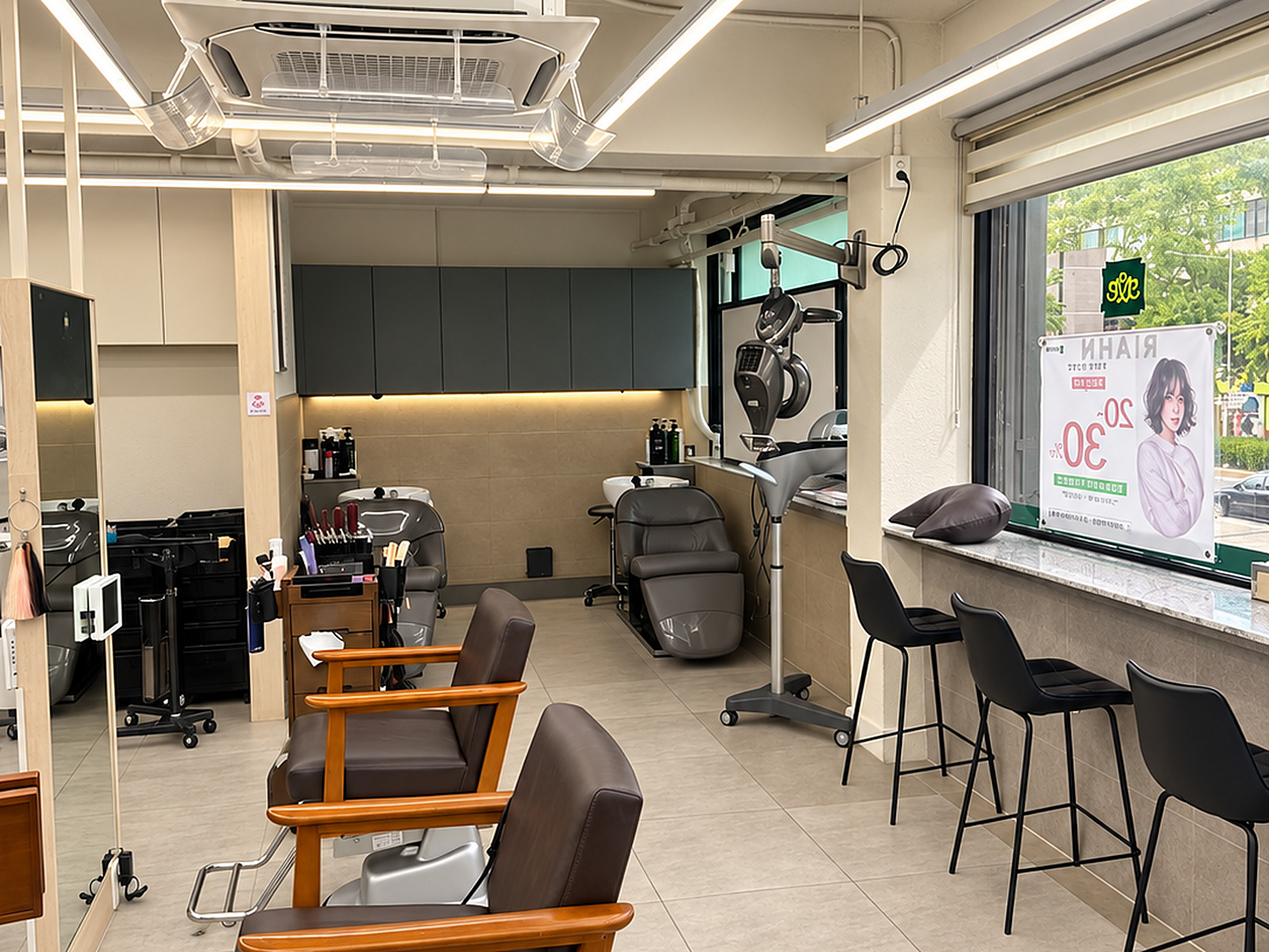
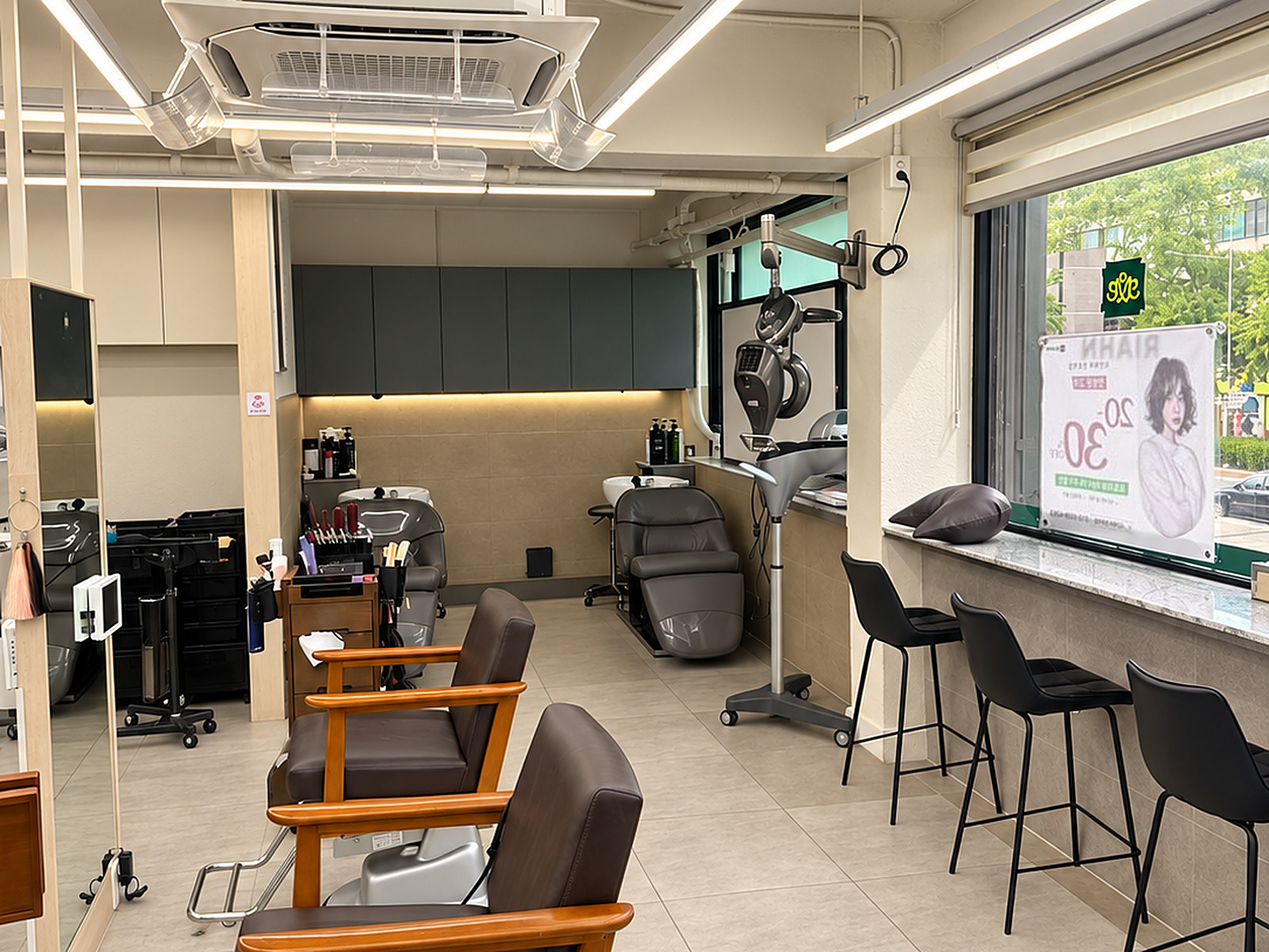
AI 보정 사진의 바뀐 글자·숫자를 원본으로 복원
- 1층 휴대폰 매장 전화번호, 창문 포스터, 접수대 포스터 날짜(매월 21일)
- 창밖 건너편 간판, 위층 한의원 전화번호, 1층 유리창 포스터·표지

Changed region(s): [[0.8125, 0.3392, 0.9688, 0.555], [0.9375, 0.5242, 0.9688, 0.555]]

diff --git a/ja/gallery/index.html b/ja/gallery/index.html
@@ -409,14 +409,14 @@
     <figure><img src="/images/style-color-2.jpg?v=278ab066" alt="ソウル・千戸駅の美容室 RIAHN Hair Cheonho Station カラー - ブラウンカラースタイル" width="1000" height="1000" loading="lazy"><figcaption><span class="nw">カラー</span> · <span class="nw">ブラウンカラースタイル</span></figcaption></figure>
     <figure><img src="/images/style-clinic-1.jpg?v=2584690c" alt="ソウル・千戸駅の美容室 RIAHN Hair Cheonho Station トリートメント - トリートメントケア" width="800" height="901" loading="lazy"><figcaption><span class="nw">トリートメント</span> · <span class="nw">トリートメントケア</span></figcaption></figure>
     <figure><img src="/images/store-main.jpg?v=885b51a1" alt="ソウル・千戸駅の美容室 RIAHN Hair Cheonho Station 店舗 - 店内の様子" width="1600" height="1200" loading="lazy"><figcaption>店舗 · 店内の様子</figcaption></figure>
-    <figure><img src="/images/store-1.jpg?v=9c8bfbdd" alt="ソウル・千戸駅の美容室 RIAHN Hair Cheonho Station 店舗 - 店舗の看板" width="1600" height="1200" loading="lazy"><figcaption>店舗 · 店舗の看板</figcaption></figure>
-    <figure><img src="/images/store-2.jpg?v=4fb3b6f1" alt="ソウル・千戸駅の美容室 RIAHN Hair Cheonho Station 店舗 - 窓際の施術席" width="1600" height="1200" loading="lazy"><figcaption>店舗 · 窓際の施術席</figcaption></figure>
+    <figure><img src="/images/store-1.jpg?v=41eaf4f2" alt="ソウル・千戸駅の美容室 RIAHN Hair Cheonho Station 店舗 - 店舗の看板" width="1600" height="1200" loading="lazy"><figcaption>店舗 · 店舗の看板</figcaption></figure>
+    <figure><img src="/images/store-2.jpg?v=5194c540" alt="ソウル・千戸駅の美容室 RIAHN Hair Cheonho Station 店舗 - 窓際の施術席" width="1600" height="1200" loading="lazy"><figcaption>店舗 · 窓際の施術席</figcaption></figure>
     <figure><img src="/images/store-3.jpg?v=8a6a134c" alt="ソウル・千戸駅の美容室 RIAHN Hair Cheonho Station 店舗 - 施術席" width="1600" height="1200" loading="lazy"><figcaption>店舗 · 施術席</figcaption></figure>
     <figure><img src="/images/store-4.jpg?v=7139ebc4" alt="ソウル・千戸駅の美容室 RIAHN Hair Cheonho Station 店舗 - シャンプースペース" width="1600" height="1200" loading="lazy"><figcaption>店舗 · <span class="nw">シャンプースペース</span></figcaption></figure>
-    <figure><img src="/images/store-5.jpg?v=d7231c51" alt="ソウル・千戸駅の美容室 RIAHN Hair Cheonho Station 店舗 - 受付" width="1600" height="1200" loading="lazy"><figcaption>店舗 · 受付</figcaption></figure>
-    <figure><img src="/images/store-6.jpg?v=7deb30e5" alt="ソウル・千戸駅の美容室 RIAHN Hair Cheonho Station 店舗 - 窓際の待合スペース" width="1600" height="1200" loading="lazy"><figcaption>店舗 · 窓際の待合<span class="nw">スペース</span></figcaption></figure>
+    <figure><img src="/images/store-5.jpg?v=c4bde2a2" alt="ソウル・千戸駅の美容室 RIAHN Hair Cheonho Station 店舗 - 受付" width="1600" height="1200" loading="lazy"><figcaption>店舗 · 受付</figcaption></figure>
+    <figure><img src="/images/store-6.jpg?v=c0d8d984" alt="ソウル・千戸駅の美容室 RIAHN Hair Cheonho Station 店舗 - 窓際の待合スペース" width="1600" height="1200" loading="lazy"><figcaption>店舗 · 窓際の待合<span class="nw">スペース</span></figcaption></figure>
     <figure><img src="/images/store-7.jpg?v=b6c8f1a3" alt="ソウル・千戸駅の美容室 RIAHN Hair Cheonho Station 店舗 - ウィッグの展示スペース" width="1600" height="1200" loading="lazy"><figcaption>店舗 · <span class="nw">ウィッグ</span>の展示<span class="nw">スペース</span></figcaption></figure>
-    <figure><img src="/images/store-8.jpg?v=56738619" alt="ソウル・千戸駅の美容室 RIAHN Hair Cheonho Station 店舗 - 建物の外観" width="1600" height="1200" loading="lazy"><figcaption>店舗 · 建物の外観</figcaption></figure>
+    <figure><img src="/images/store-8.jpg?v=87a6d39a" alt="ソウル・千戸駅の美容室 RIAHN Hair Cheonho Station 店舗 - 建物の外観" width="1600" height="1200" loading="lazy"><figcaption>店舗 · 建物の外観</figcaption></figure>
   </div>
 </section>
 

diff --git a/zh/gallery/index.html b/zh/gallery/index.html
@@ -409,14 +409,14 @@
     <figure><img src="/images/style-color-2.jpg?v=278ab066" alt="首尔千户站美发沙龙 RIAHN Hair Cheonho Station 染发 - 棕色染发造型" width="1000" height="1000" loading="lazy"><figcaption>染发 · 棕色染发<span class="nw">造型</span></figcaption></figure>
     <figure><img src="/images/style-clinic-1.jpg?v=2584690c" alt="首尔千户站美发沙龙 RIAHN Hair Cheonho Station 护理 - 头发护理" width="800" height="901" loading="lazy"><figcaption>护理 · 头发<span class="nw">护理</span></figcaption></figure>
     <figure><img src="/images/store-main.jpg?v=885b51a1" alt="首尔千户站美发沙龙 RIAHN Hair Cheonho Station 门店 - 店内全景" width="1600" height="1200" loading="lazy"><figcaption>门店 · 店内<span class="nw">全景</span></figcaption></figure>
-    <figure><img src="/images/store-1.jpg?v=9c8bfbdd" alt="首尔千户站美发沙龙 RIAHN Hair Cheonho Station 门店 - 门店招牌" width="1600" height="1200" loading="lazy"><figcaption>门店 · 门店<span class="nw">招牌</span></figcaption></figure>
-    <figure><img src="/images/store-2.jpg?v=4fb3b6f1" alt="首尔千户站美发沙龙 RIAHN Hair Cheonho Station 门店 - 窗边座位" width="1600" height="1200" loading="lazy"><figcaption>门店 · 窗边<span class="nw">座位</span></figcaption></figure>
+    <figure><img src="/images/store-1.jpg?v=41eaf4f2" alt="首尔千户站美发沙龙 RIAHN Hair Cheonho Station 门店 - 门店招牌" width="1600" height="1200" loading="lazy"><figcaption>门店 · 门店<span class="nw">招牌</span></figcaption></figure>
+    <figure><img src="/images/store-2.jpg?v=5194c540" alt="首尔千户站美发沙龙 RIAHN Hair Cheonho Station 门店 - 窗边座位" width="1600" height="1200" loading="lazy"><figcaption>门店 · 窗边<span class="nw">座位</span></figcaption></figure>
     <figure><img src="/images/store-3.jpg?v=8a6a134c" alt="首尔千户站美发沙龙 RIAHN Hair Cheonho Station 门店 - 美发座位" width="1600" height="1200" loading="lazy"><figcaption>门店 · 美发<span class="nw">座位</span></figcaption></figure>
     <figure><img src="/images/store-4.jpg?v=7139ebc4" alt="首尔千户站美发沙龙 RIAHN Hair Cheonho Station 门店 - 洗发区" width="1600" height="1200" loading="lazy"><figcaption>门店 · 洗<span class="nw">发区</span></figcaption></figure>
-    <figure><img src="/images/store-5.jpg?v=d7231c51" alt="首尔千户站美发沙龙 RIAHN Hair Cheonho Station 门店 - 前台" width="1600" height="1200" loading="lazy"><figcaption>门店 · <span class="nw">前台</span></figcaption></figure>
-    <figure><img src="/images/store-6.jpg?v=7deb30e5" alt="首尔千户站美发沙龙 RIAHN Hair Cheonho Station 门店 - 窗边等候区" width="1600" height="1200" loading="lazy"><figcaption>门店 · 窗边等<span class="nw">候区</span></figcaption></figure>
+    <figure><img src="/images/store-5.jpg?v=c4bde2a2" alt="首尔千户站美发沙龙 RIAHN Hair Cheonho Station 门店 - 前台" width="1600" height="1200" loading="lazy"><figcaption>门店 · <span class="nw">前台</span></figcaption></figure>
+    <figure><img src="/images/store-6.jpg?v=c0d8d984" alt="首尔千户站美发沙龙 RIAHN Hair Cheonho Station 门店 - 窗边等候区" width="1600" height="1200" loading="lazy"><figcaption>门店 · 窗边等<span class="nw">候区</span></figcaption></figure>
     <figure><img src="/images/store-7.jpg?v=b6c8f1a3" alt="首尔千户站美发沙龙 RIAHN Hair Cheonho Station 门店 - 假发陈列区" width="1600" height="1200" loading="lazy"><figcaption>门店 · 假发陈<span class="nw">列区</span></figcaption></figure>
-    <figure><img src="/images/store-8.jpg?v=56738619" alt="首尔千户站美发沙龙 RIAHN Hair Cheonho Station 门店 - 门店所在大楼街景" width="1600" height="1200" loading="lazy"><figcaption>门店 · 门店所在大楼<span class="nw">街景</span></figcaption></figure>
+    <figure><img src="/images/store-8.jpg?v=87a6d39a" alt="首尔千户站美发沙龙 RIAHN Hair Cheonho Station 门店 - 门店所在大楼街景" width="1600" height="1200" loading="lazy"><figcaption>门店 · 门店所在大楼<span class="nw">街景</span></figcaption></figure>
   </div>
 </section>
 

diff --git a/en/gallery/index.html b/en/gallery/index.html
@@ -409,14 +409,14 @@
     <figure><img src="/images/style-color-2.jpg?v=278ab066" alt="Brown color style (Color) at RIAHN Hair Cheonho Station, near Cheonho Station, Seoul" width="1000" height="1000" loading="lazy"><figcaption>Color · Brown color style</figcaption></figure>
     <figure><img src="/images/style-clinic-1.jpg?v=2584690c" alt="Hair treatment care (Treatment) at RIAHN Hair Cheonho Station, near Cheonho Station, Seoul" width="800" height="901" loading="lazy"><figcaption>Treatment · Hair treatment care</figcaption></figure>
     <figure><img src="/images/store-main.jpg?v=885b51a1" alt="Salon interior (Salon) at RIAHN Hair Cheonho Station, near Cheonho Station, Seoul" width="1600" height="1200" loading="lazy"><figcaption>Salon · Salon interior</figcaption></figure>
-    <figure><img src="/images/store-1.jpg?v=9c8bfbdd" alt="Salon sign (Salon) at RIAHN Hair Cheonho Station, near Cheonho Station, Seoul" width="1600" height="1200" loading="lazy"><figcaption>Salon · Salon sign</figcaption></figure>
-    <figure><img src="/images/store-2.jpg?v=4fb3b6f1" alt="Styling chairs by the window (Salon) at RIAHN Hair Cheonho Station, near Cheonho Station, Seoul" width="1600" height="1200" loading="lazy"><figcaption>Salon · Styling chairs by the window</figcaption></figure>
+    <figure><img src="/images/store-1.jpg?v=41eaf4f2" alt="Salon sign (Salon) at RIAHN Hair Cheonho Station, near Cheonho Station, Seoul" width="1600" height="1200" loading="lazy"><figcaption>Salon · Salon sign</figcaption></figure>
+    <figure><img src="/images/store-2.jpg?v=5194c540" alt="Styling chairs by the window (Salon) at RIAHN Hair Cheonho Station, near Cheonho Station, Seoul" width="1600" height="1200" loading="lazy"><figcaption>Salon · Styling chairs by the window</figcaption></figure>
     <figure><img src="/images/store-3.jpg?v=8a6a134c" alt="Styling chairs (Salon) at RIAHN Hair Cheonho Station, near Cheonho Station, Seoul" width="1600" height="1200" loading="lazy"><figcaption>Salon · Styling chairs</figcaption></figure>
     <figure><img src="/images/store-4.jpg?v=7139ebc4" alt="Shampoo area (Salon) at RIAHN Hair Cheonho Station, near Cheonho Station, Seoul" width="1600" height="1200" loading="lazy"><figcaption>Salon · Shampoo area</figcaption></figure>
-    <figure><img src="/images/store-5.jpg?v=d7231c51" alt="Front desk (Salon) at RIAHN Hair Cheonho Station, near Cheonho Station, Seoul" width="1600" height="1200" loading="lazy"><figcaption>Salon · Front desk</figcaption></figure>
-    <figure><img src="/images/store-6.jpg?v=7deb30e5" alt="Waiting area by the window (Salon) at RIAHN Hair Cheonho Station, near Cheonho Station, Seoul" width="1600" height="1200" loading="lazy"><figcaption>Salon · Waiting area by the window</figcaption></figure>
+    <figure><img src="/images/store-5.jpg?v=c4bde2a2" alt="Front desk (Salon) at RIAHN Hair Cheonho Station, near Cheonho Station, Seoul" width="1600" height="1200" loading="lazy"><figcaption>Salon · Front desk</figcaption></figure>
+    <figure><img src="/images/store-6.jpg?v=c0d8d984" alt="Waiting area by the window (Salon) at RIAHN Hair Cheonho Station, near Cheonho Station, Seoul" width="1600" height="1200" loading="lazy"><figcaption>Salon · Waiting area by the window</figcaption></figure>
     <figure><img src="/images/store-7.jpg?v=b6c8f1a3" alt="Wig display area (Salon) at RIAHN Hair Cheonho Station, near Cheonho Station, Seoul" width="1600" height="1200" loading="lazy"><figcaption>Salon · Wig display area</figcaption></figure>
-    <figure><img src="/images/store-8.jpg?v=56738619" alt="Street view of the building (Salon) at RIAHN Hair Cheonho Station, near Cheonho Station, Seoul" width="1600" height="1200" loading="lazy"><figcaption>Salon · Street view of the building</figcaption></figure>
+    <figure><img src="/images/store-8.jpg?v=87a6d39a" alt="Street view of the building (Salon) at RIAHN Hair Cheonho Station, near Cheonho Station, Seoul" width="1600" height="1200" loading="lazy"><figcaption>Salon · Street view of the building</figcaption></figure>
   </div>
 </section>
 

diff --git a/gallery/index.html b/gallery/index.html
@@ -411,14 +411,14 @@
     <figure><img src="/images/style-color-2.jpg?v=278ab066" alt="리안헤어 천호역점 천호역 미용실 염색 - 브라운 염색 스타일" width="1000" height="1000" loading="lazy"><figcaption>염색 · 브라운 염색 스타일</figcaption></figure>
     <figure><img src="/images/style-clinic-1.jpg?v=2584690c" alt="리안헤어 천호역점 천호역 미용실 클리닉 - 클리닉 헤어 케어" width="800" height="901" loading="lazy"><figcaption>클리닉 · 클리닉 헤어 케어</figcaption></figure>
     <figure><img src="/images/store-main.jpg?v=885b51a1" alt="리안헤어 천호역점 천호역 미용실 매장 - 매장 내부 전경" width="1600" height="1200" loading="lazy"><figcaption>매장 · 매장 내부 전경</figcaption></figure>
-    <figure><img src="/images/store-1.jpg?v=9c8bfbdd" alt="리안헤어 천호역점 천호역 미용실 매장 - 매장 외관 간판" width="1600" height="1200" loading="lazy"><figcaption>매장 · 매장 외관 간판</figcaption></figure>
-    <figure><img src="/images/store-2.jpg?v=4fb3b6f1" alt="리안헤어 천호역점 천호역 미용실 매장 - 창가 시술석" width="1600" height="1200" loading="lazy"><figcaption>매장 · 창가 시술석</figcaption></figure>
+    <figure><img src="/images/store-1.jpg?v=41eaf4f2" alt="리안헤어 천호역점 천호역 미용실 매장 - 매장 외관 간판" width="1600" height="1200" loading="lazy"><figcaption>매장 · 매장 외관 간판</figcaption></figure>
+    <figure><img src="/images/store-2.jpg?v=5194c540" alt="리안헤어 천호역점 천호역 미용실 매장 - 창가 시술석" width="1600" height="1200" loading="lazy"><figcaption>매장 · 창가 시술석</figcaption></figure>
     <figure><img src="/images/store-3.jpg?v=8a6a134c" alt="리안헤어 천호역점 천호역 미용실 매장 - 시술석" width="1600" height="1200" loading="lazy"><figcaption>매장 · 시술석</figcaption></figure>
     <figure><img src="/images/store-4.jpg?v=7139ebc4" alt="리안헤어 천호역점 천호역 미용실 매장 - 샴푸 공간" width="1600" height="1200" loading="lazy"><figcaption>매장 · 샴푸 공간</figcaption></figure>
-    <figure><img src="/images/store-5.jpg?v=d7231c51" alt="리안헤어 천호역점 천호역 미용실 매장 - 안내 데스크" width="1600" height="1200" loading="lazy"><figcaption>매장 · 안내 데스크</figcaption></figure>
-    <figure><img src="/images/store-6.jpg?v=7deb30e5" alt="리안헤어 천호역점 천호역 미용실 매장 - 창가 대기 공간" width="1600" height="1200" loading="lazy"><figcaption>매장 · 창가 대기 공간</figcaption></figure>
+    <figure><img src="/images/store-5.jpg?v=c4bde2a2" alt="리안헤어 천호역점 천호역 미용실 매장 - 안내 데스크" width="1600" height="1200" loading="lazy"><figcaption>매장 · 안내 데스크</figcaption></figure>
+    <figure><img src="/images/store-6.jpg?v=c0d8d984" alt="리안헤어 천호역점 천호역 미용실 매장 - 창가 대기 공간" width="1600" height="1200" loading="lazy"><figcaption>매장 · 창가 대기 공간</figcaption></figure>
     <figure><img src="/images/store-7.jpg?v=b6c8f1a3" alt="리안헤어 천호역점 천호역 미용실 매장 - 가발 진열 공간" width="1600" height="1200" loading="lazy"><figcaption>매장 · 가발 진열 공간</figcaption></figure>
-    <figure><img src="/images/store-8.jpg?v=56738619" alt="리안헤어 천호역점 천호역 미용실 매장 - 매장 건물 거리 전경" width="1600" height="1200" loading="lazy"><figcaption>매장 · 매장 건물 거리 전경</figcaption></figure>
+    <figure><img src="/images/store-8.jpg?v=87a6d39a" alt="리안헤어 천호역점 천호역 미용실 매장 - 매장 건물 거리 전경" width="1600" height="1200" loading="lazy"><figcaption>매장 · 매장 건물 거리 전경</figcaption></figure>
   </div>
 </section>
 

diff --git a/ja/location/index.html b/ja/location/index.html
@@ -250,9 +250,9 @@
 <section class="b-flush">
   <div class="b-pad"><div class="sec-head"><div class="sec-num"><span class="eyebrow num">C</span><span class="eyebrow"><span class="nw">STORE</span></span></div><h2>お店までの道順</h2><p class="body-text"><span class="ks">千戸駅9番出口を出て157m、<span class="nw">ハイマート</span>の隣の<span class="nw">ビル</span><span class="nw">です。</span></span><span class="ks">「<span class="nw">RIAHN</span> <span class="nw">HAIR</span>」の看板がある<span class="nw">2階</span><span class="nw">です。</span></span></p></div></div>
   <div class="b-photos">
-    <img src="/images/store-1.jpg?v=9c8bfbdd" alt="ソウル・千戸駅の美容室 RIAHN Hair Cheonho Stationの店舗の看板" width="1600" height="1200" loading="lazy">
-    <img src="/images/store-8.jpg?v=56738619" alt="ソウル・千戸駅の美容室 RIAHN Hair Cheonho Stationの建物の外観" width="1600" height="1200" loading="lazy">
-    <img src="/images/store-5.jpg?v=d7231c51" alt="ソウル・千戸駅の美容室 RIAHN Hair Cheonho Stationの受付" width="1600" height="1200" loading="lazy">
+    <img src="/images/store-1.jpg?v=41eaf4f2" alt="ソウル・千戸駅の美容室 RIAHN Hair Cheonho Stationの店舗の看板" width="1600" height="1200" loading="lazy">
+    <img src="/images/store-8.jpg?v=87a6d39a" alt="ソウル・千戸駅の美容室 RIAHN Hair Cheonho Stationの建物の外観" width="1600" height="1200" loading="lazy">
+    <img src="/images/store-5.jpg?v=c4bde2a2" alt="ソウル・千戸駅の美容室 RIAHN Hair Cheonho Stationの受付" width="1600" height="1200" loading="lazy">
   </div>
 </section>
 

diff --git a/zh/location/index.html b/zh/location/index.html
@@ -250,9 +250,9 @@
 <section class="b-flush">
   <div class="b-pad"><div class="sec-head"><div class="sec-num"><span class="eyebrow num">C</span><span class="eyebrow"><span class="nw">STORE</span></span></div><h2>如何<span class="nw">到店</span></h2><p class="body-text"><span class="ks">从千户站9号出口出来步行157米，就是 <span class="nw">Himart</span> 旁边的<span class="nw">大楼。</span></span><span class="ks">挂有“<span class="nw">RIAHN</span> <span class="nw">HAIR</span>”招牌的2楼。</span></p></div></div>
   <div class="b-photos">
-    <img src="/images/store-1.jpg?v=9c8bfbdd" alt="首尔千户站美发沙龙 RIAHN Hair Cheonho Station 门店招牌" width="1600" height="1200" loading="lazy">
-    <img src="/images/store-8.jpg?v=56738619" alt="首尔千户站美发沙龙 RIAHN Hair Cheonho Station 门店所在大楼街景" width="1600" height="1200" loading="lazy">
-    <img src="/images/store-5.jpg?v=d7231c51" alt="首尔千户站美发沙龙 RIAHN Hair Cheonho Station 前台" width="1600" height="1200" loading="lazy">
+    <img src="/images/store-1.jpg?v=41eaf4f2" alt="首尔千户站美发沙龙 RIAHN Hair Cheonho Station 门店招牌" width="1600" height="1200" loading="lazy">
+    <img src="/images/store-8.jpg?v=87a6d39a" alt="首尔千户站美发沙龙 RIAHN Hair Cheonho Station 门店所在大楼街景" width="1600" height="1200" loading="lazy">
+    <img src="/images/store-5.jpg?v=c4bde2a2" alt="首尔千户站美发沙龙 RIAHN Hair Cheonho Station 前台" width="1600" height="1200" loading="lazy">
   </div>
 </section>
 

diff --git a/en/location/index.html b/en/location/index.html
@@ -250,9 +250,9 @@
 <section class="b-flush">
   <div class="b-pad"><div class="sec-head"><div class="sec-num"><span class="eyebrow num">C</span><span class="eyebrow">STORE</span></div><h2>Finding us</h2><p class="body-text"><span class="ks">Take Exit 9 at Cheonho Station and walk 157 m to the building next to Himart.</span> <span class="ks">We are on the 2nd floor with the “RIAHN HAIR” sign.</span></p></div></div>
   <div class="b-photos">
-    <img src="/images/store-1.jpg?v=9c8bfbdd" alt="Salon sign at RIAHN Hair Cheonho Station, near Cheonho Station, Seoul" width="1600" height="1200" loading="lazy">
-    <img src="/images/store-8.jpg?v=56738619" alt="Street view of the building at RIAHN Hair Cheonho Station, near Cheonho Station, Seoul" width="1600" height="1200" loading="lazy">
-    <img src="/images/store-5.jpg?v=d7231c51" alt="Front desk at RIAHN Hair Cheonho Station, near Cheonho Station, Seoul" width="1600" height="1200" loading="lazy">
+    <img src="/images/store-1.jpg?v=41eaf4f2" alt="Salon sign at RIAHN Hair Cheonho Station, near Cheonho Station, Seoul" width="1600" height="1200" loading="lazy">
+    <img src="/images/store-8.jpg?v=87a6d39a" alt="Street view of the building at RIAHN Hair Cheonho Station, near Cheonho Station, Seoul" width="1600" height="1200" loading="lazy">
+    <img src="/images/store-5.jpg?v=c4bde2a2" alt="Front desk at RIAHN Hair Cheonho Station, near Cheonho Station, Seoul" width="1600" height="1200" loading="lazy">
   </div>
 </section>
 

diff --git a/location/index.html b/location/index.html
@@ -252,9 +252,9 @@
 <section class="b-flush">
   <div class="b-pad"><div class="sec-head"><div class="sec-num"><span class="eyebrow num">C</span><span class="eyebrow">STORE</span></div><h2>매장 찾아오기</h2><p class="body-text"><span class="ks">천호역 9번 출구로 나와 157m, 하이마트 옆 건물입니다.</span> <span class="ks"><span class="nw">「RIAHN</span> <span class="nw">HAIR」</span> 간판이 있는 2층입니다.</span></p></div></div>
   <div class="b-photos">
-    <img src="/images/store-1.jpg?v=9c8bfbdd" alt="리안헤어 천호역점 천호역 미용실 매장 외관 간판" width="1600" height="1200" loading="lazy">
-    <img src="/images/store-8.jpg?v=56738619" alt="리안헤어 천호역점 천호역 미용실 매장 건물 거리 전경" width="1600" height="1200" loading="lazy">
-    <img src="/images/store-5.jpg?v=d7231c51" alt="리안헤어 천호역점 천호역 미용실 안내 데스크" width="1600" height="1200" loading="lazy">
+    <img src="/images/store-1.jpg?v=41eaf4f2" alt="리안헤어 천호역점 천호역 미용실 매장 외관 간판" width="1600" height="1200" loading="lazy">
+    <img src="/images/store-8.jpg?v=87a6d39a" alt="리안헤어 천호역점 천호역 미용실 매장 건물 거리 전경" width="1600" height="1200" loading="lazy">
+    <img src="/images/store-5.jpg?v=c4bde2a2" alt="리안헤어 천호역점 천호역 미용실 안내 데스크" width="1600" height="1200" loading="lazy">
   </div>
 </section>
 

diff --git a/recruit/index.html b/recruit/index.html
@@ -322,7 +322,7 @@
   <div class="b-pad"><div class="sec-head"><div class="sec-num"><span class="eyebrow num">03</span><span class="eyebrow">OUR SALON</span></div><h2>함께 일할 공간</h2><p class="body-text">천호역 9번 출구 157m, 바람드리길 59 2층, 시술석 8석 규모의 매장입니다.</p></div></div>
   <div class="b-photos">
     <img src="/images/store-main.jpg?v=885b51a1" alt="리안헤어 천호역점 천호역 미용실 채용 - 매장 내부 전경" width="1600" height="1200" loading="lazy">
-    <img src="/images/store-2.jpg?v=4fb3b6f1" alt="리안헤어 천호역점 천호역 미용실 채용 - 창가 시술석" width="1600" height="1200" loading="lazy">
+    <img src="/images/store-2.jpg?v=5194c540" alt="리안헤어 천호역점 천호역 미용실 채용 - 창가 시술석" width="1600" height="1200" loading="lazy">
     <img src="/images/store-4.jpg?v=7139ebc4" alt="리안헤어 천호역점 천호역 미용실 채용 - 샴푸 공간" width="1600" height="1200" loading="lazy">
   </div>
 </section>

diff --git a/ja/index.html b/ja/index.html
@@ -323,7 +323,7 @@
   <div class="b-pad"><div class="sec-head"><div class="sec-num"><span class="eyebrow num">04</span><span class="eyebrow"><span class="nw">SPACE</span></span></div><h2>店舗</h2></div></div>
   <div class="b-photos">
     <img src="/images/store-main.jpg?v=885b51a1" alt="ソウル・千戸駅の美容室 RIAHN Hair Cheonho Stationの店内の様子" width="1600" height="1200" loading="lazy">
-    <img src="/images/store-5.jpg?v=d7231c51" alt="ソウル・千戸駅の美容室 RIAHN Hair Cheonho Stationの受付" width="1600" height="1200" loading="lazy">
+    <img src="/images/store-5.jpg?v=c4bde2a2" alt="ソウル・千戸駅の美容室 RIAHN Hair Cheonho Stationの受付" width="1600" height="1200" loading="lazy">
     <img src="/images/store-7.jpg?v=b6c8f1a3" alt="ソウル・千戸駅の美容室 RIAHN Hair Cheonho Stationのウィッグの展示スペース" width="1600" height="1200" loading="lazy">
   </div>
 </section>

diff --git a/zh/index.html b/zh/index.html
@@ -323,7 +323,7 @@
   <div class="b-pad"><div class="sec-head"><div class="sec-num"><span class="eyebrow num">04</span><span class="eyebrow"><span class="nw">SPACE</span></span></div><h2><span class="nw">门店</span></h2></div></div>
   <div class="b-photos">
     <img src="/images/store-main.jpg?v=885b51a1" alt="首尔千户站美发沙龙 RIAHN Hair Cheonho Station 店内全景" width="1600" height="1200" loading="lazy">
-    <img src="/images/store-5.jpg?v=d7231c51" alt="首尔千户站美发沙龙 RIAHN Hair Cheonho Station 前台" width="1600" height="1200" loading="lazy">
+    <img src="/images/store-5.jpg?v=c4bde2a2" alt="首尔千户站美发沙龙 RIAHN Hair Cheonho Station 前台" width="1600" height="1200" loading="lazy">
     <img src="/images/store-7.jpg?v=b6c8f1a3" alt="首尔千户站美发沙龙 RIAHN Hair Cheonho Station 假发陈列区" width="1600" height="1200" loading="lazy">
   </div>
 </section>

diff --git a/en/index.html b/en/index.html
@@ -323,7 +323,7 @@
   <div class="b-pad"><div class="sec-head"><div class="sec-num"><span class="eyebrow num">04</span><span class="eyebrow">SPACE</span></div><h2>Salon</h2></div></div>
   <div class="b-photos">
     <img src="/images/store-main.jpg?v=885b51a1" alt="Salon interior at RIAHN Hair Cheonho Station, near Cheonho Station, Seoul" width="1600" height="1200" loading="lazy">
-    <img src="/images/store-5.jpg?v=d7231c51" alt="Front desk at RIAHN Hair Cheonho Station, near Cheonho Station, Seoul" width="1600" height="1200" loading="lazy">
+    <img src="/images/store-5.jpg?v=c4bde2a2" alt="Front desk at RIAHN Hair Cheonho Station, near Cheonho Station, Seoul" width="1600" height="1200" loading="lazy">
     <img src="/images/store-7.jpg?v=b6c8f1a3" alt="Wig display area at RIAHN Hair Cheonho Station, near Cheonho Station, Seoul" width="1600" height="1200" loading="lazy">
   </div>
 </section>
